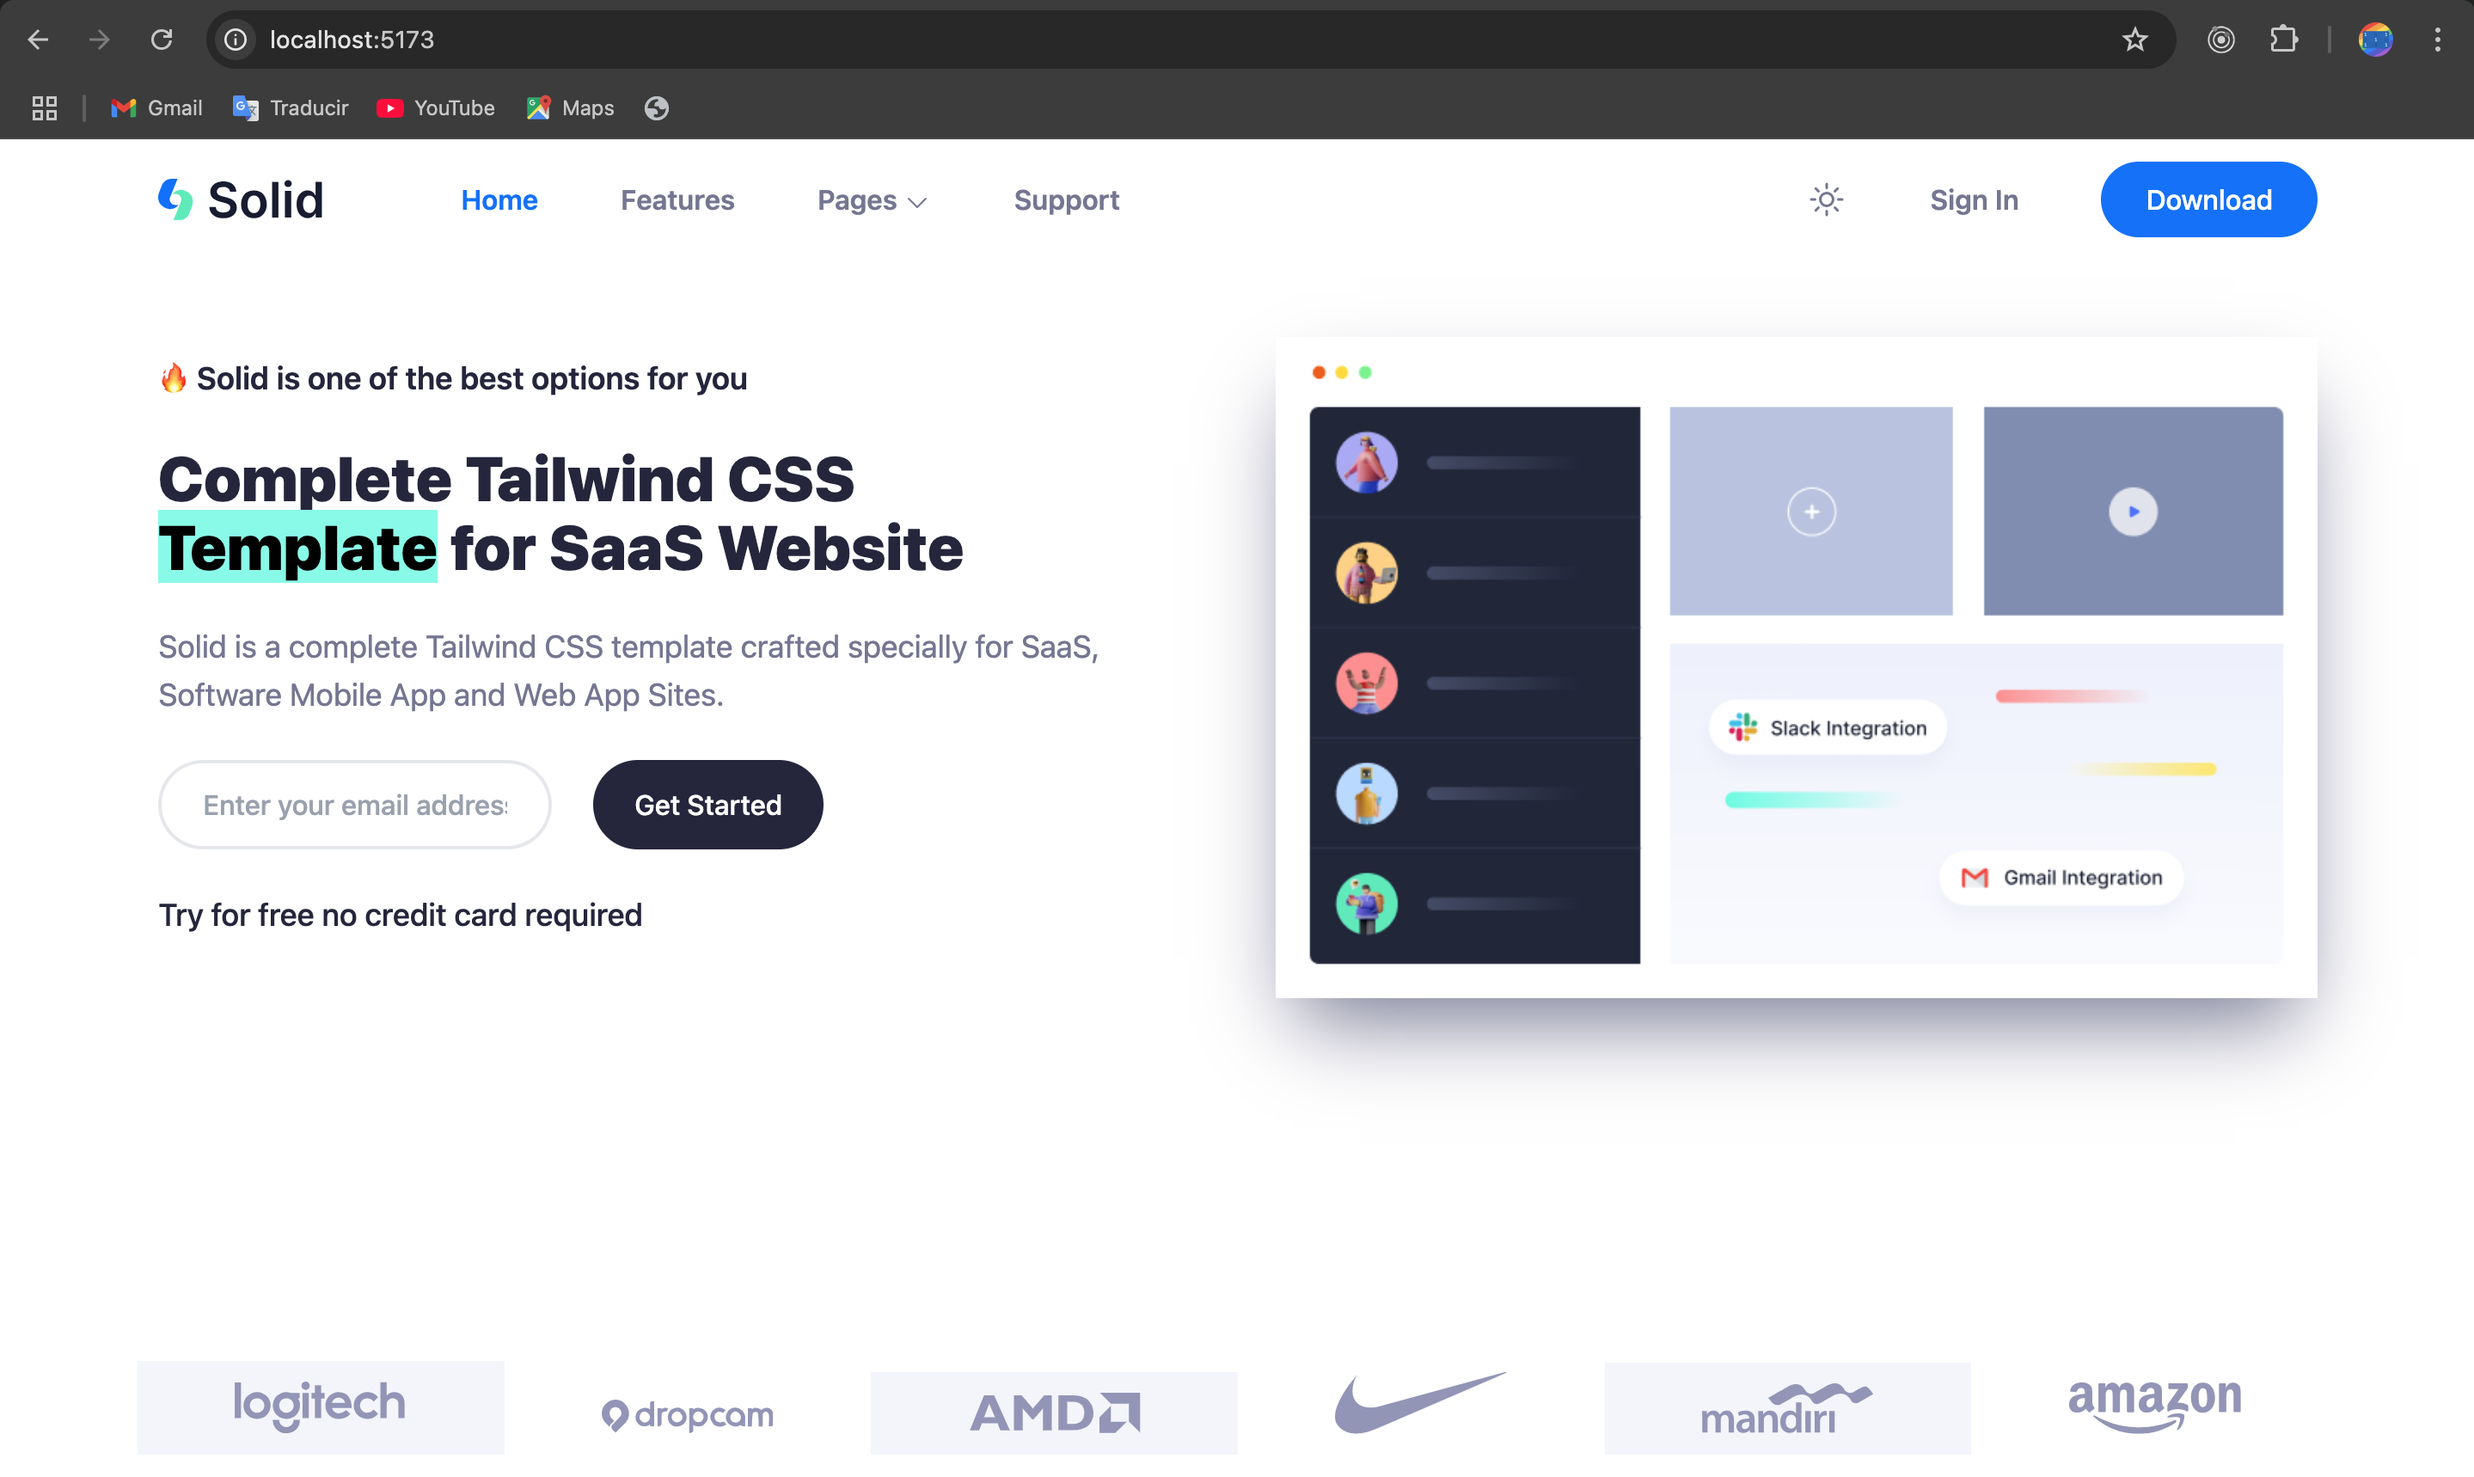
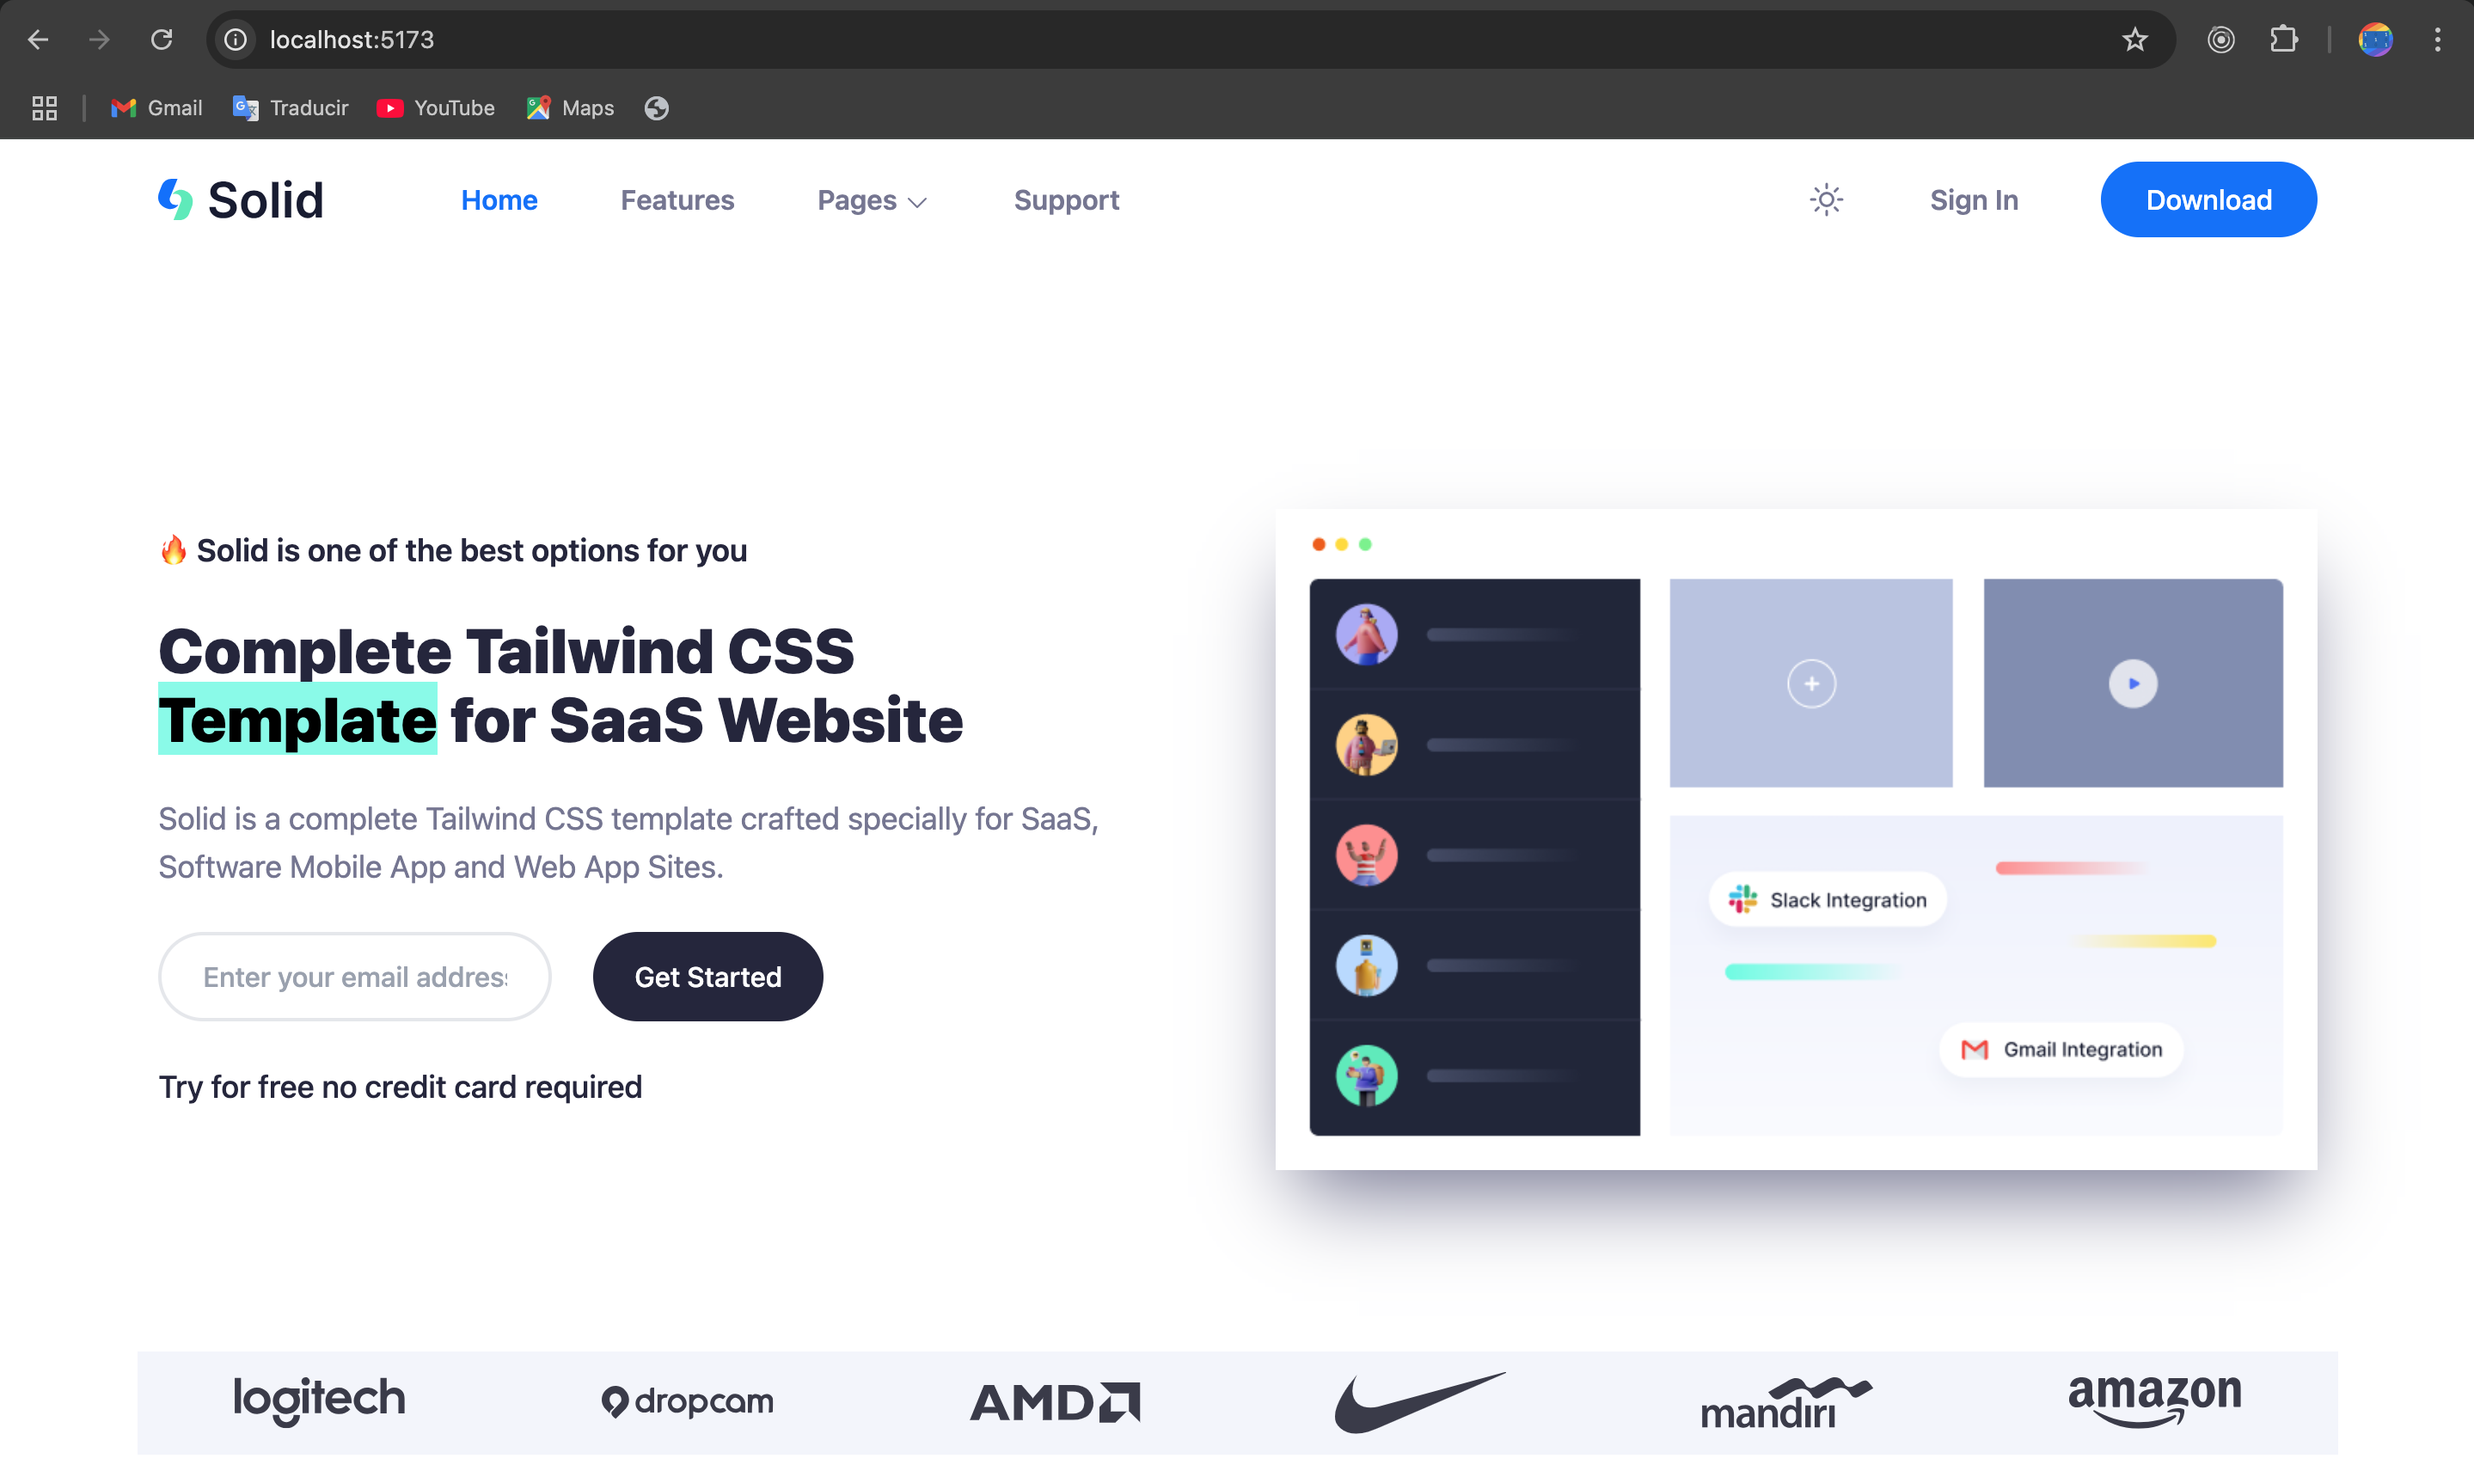
Upload app_screenshot at README.md file

diff --git a/src/components/Home.jsx b/src/components/Home.jsx
@@ -9,7 +9,7 @@ import teamLogo6 from "../assets/team-logo-6.svg";
 
 const Home = () => {
   return (
-    <div className="flex flex-col h-[650px] gap-[20px] justify-between">
+    <div className="flex flex-col h-[550px] gap-[20px] justify-between">
       <div className="grid lg:grid-cols-2 grid-cols-1 gap-[20px]">
         <div className="px-5 md:px-3 flex flex-col justify-center">
           <h3 className="text-md lg:text-lg text-dark-text-500 font-semibold mb-6">🔥 Solid is one of the best options for you</h3>
@@ -31,24 +31,24 @@ const Home = () => {
           <img src={heroImg} width={700} height={444} className="shadow-2xl shadow-gray-300" />
         </div>
       </div>
-      <div className="bg-white w-full h-[90px] grid grid-cols-3 lg:grid-cols-6 place-items-end">
-        <div className="bg-light-200 flex items-center justify-center w-full py-3">
-          <img src={teamLogo1} width={100} height={30} className="brightness-125" />
+      <div className="bg-white w-full grid grid-cols-3 lg:grid-cols-6 place-items-end">
+        <div className="bg-light-200 flex items-center justify-center w-full py-3 h-[60px]">
+          <img src={teamLogo1} width={100} height={30} className="brightness-50" />
         </div>
-        <div className="flex items-center justify-center w-full py-3">
-          <img src={teamLogo2} width={100} height={30} className="brightness-125" />
+        <div className="bg-light-200 flex items-center justify-center w-full py-3 h-[60px]">
+          <img src={teamLogo2} width={100} height={30} className="brightness-50" />
         </div>
-        <div className="bg-light-200 flex items-center justify-center w-full py-3">
-          <img src={teamLogo3} width={100} height={30} className="brightness-125" />
+        <div className="bg-light-200 flex items-center justify-center w-full py-3 h-[60px]">
+          <img src={teamLogo3} width={100} height={30} className="brightness-50" />
         </div>
-        <div className="flex items-center justify-center w-full py-3">
-          <img src={teamLogo4} width={100} height={30} className="brightness-125" />
+        <div className="bg-light-200 flex items-center justify-center w-full py-3 h-[60px]">
+          <img src={teamLogo4} width={100} height={30} className="brightness-50" />
         </div>
-        <div className="bg-light-200 flex items-center justify-center w-full py-3">
-          <img src={teamLogo5} width={100} height={30} className="brightness-125" />
+        <div className="bg-light-200 flex items-center justify-center w-full py-3 h-[60px]">
+          <img src={teamLogo5} width={100} height={30} className="brightness-50" />
         </div>
-        <div className="flex items-center justify-center w-full py-3">
-          <img src={teamLogo6} width={100} height={30} className="brightness-125" />
+        <div className="bg-light-200 flex items-center justify-center w-full py-3 h-[60px]">
+          <img src={teamLogo6} width={100} height={30} className="brightness-50" />
         </div>
       </div>
     </div>

diff --git a/src/App.jsx b/src/App.jsx
@@ -15,7 +15,7 @@ function App() {
     <BrowserRouter>
       <div className="bg-white w-full h-screen">
         <Navbar />
-        <main className="pt-[115px] bg-white md:max-w-7xl mx-auto">
+        <main className="pt-[215px] bg-white md:max-w-7xl mx-auto">
         <Routes>
           <Route path="/" element={<Home />} exact />
           <Route path="/features" element={<Features />} exact />

diff --git a/src/index.css b/src/index.css
@@ -9,6 +9,7 @@
   --color-highlight-500: oklch(0.9114 0.1102 182.61);
 
   --color-light-200: oklch(0.9703 0.0083 271.33);
+  --color-light-400: oklch(0.8257 0.0449 271.26);
   --color-dark-text-500: oklch(0.2765 0.044 283.14);
 
   --font-sans: ui-sans-serif, system-ui, sans-serif, "Apple Color Emoji", "Segoe UI Emoji", "Segoe UI Symbol", "Noto Color Emoji";

diff --git a/README.md b/README.md
@@ -32,7 +32,7 @@ Currently, two official plugins are available:
 
 If you are developing a production application, we recommend using TypeScript with type-aware lint rules enabled. Check out the [TS template](https://github.com/vitejs/vite/tree/main/packages/create-vite/template-react-ts) for information on how to integrate TypeScript and [`typescript-eslint`](https://typescript-eslint.io) in your project.
 
-## ✒ Authors
+# Authors
 
 **Cecilia Benitez**
 
